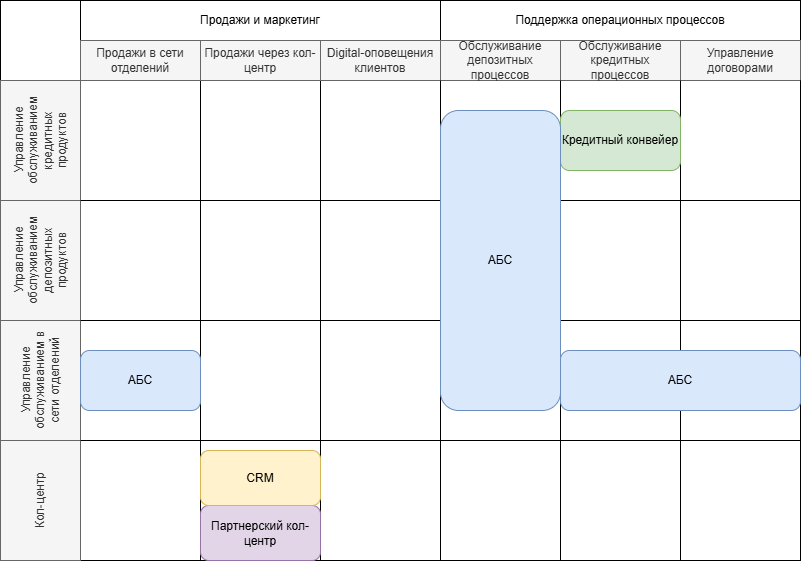
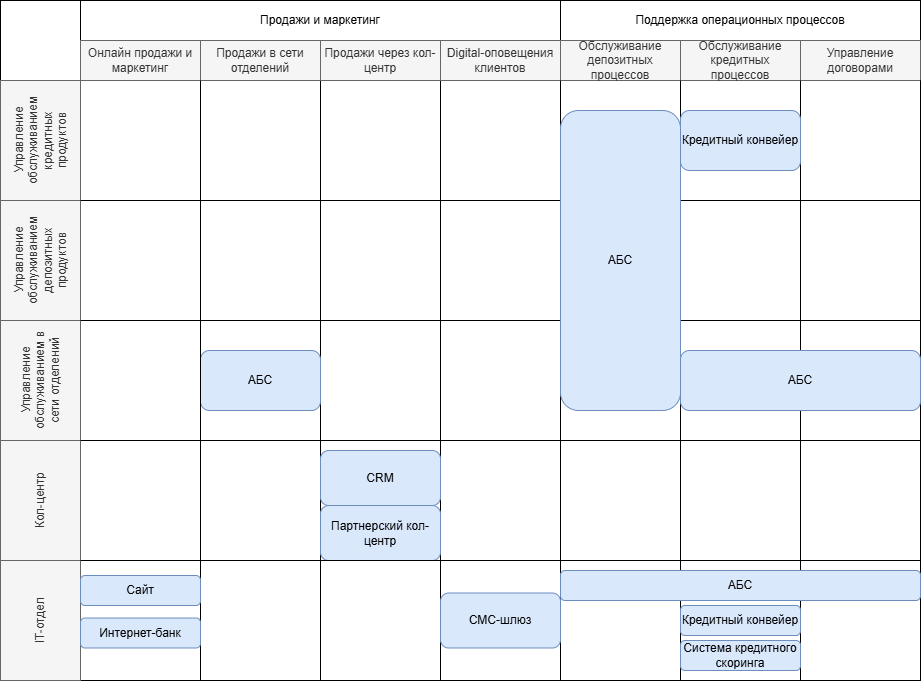
UPD: Task1 и Task2

diff --git a/Task1/Описание и примечание.md b/Task1/Описание и примечание.md
@@ -7,10 +7,5 @@
 4. При одобрении кредита заявки переходят в финальный статус и потом раз в сутки эта информация передается в АБС, где проводятся платежи для зачисления кредитных средств на счет клиента.
 
 **Примечание**
-1. Сайт и интернет банк на карте IT-ландшафта.  
-На текущий момент анализа компании нет ясности, кто занимается поддержкой и наполнением этих систем со стороны бизнес-подразделений. Учитывая это, а также то, что клиенты редко пользуются данными ресурсами, сайт и интернет-банк не отображены на карте IT-ландшафта.
-2. Digital-оповещения клиентов на карте IT-ландшафта.  
-Данная вертикаль осталась пустой, т.к.:
-    - По описанию бизнеса и систем, был сделан вывод, что АБС автоматически занимается рассылкой оповещений на основании статусов заявок от клиентов.
-    - В компании нет выделенного отдела, который отвечает за содержание SMS рассылок
-    - В компании нет упоминаний о бизнес-процессе рассылок маркетинговых оповещений
+1. IT-отдел не является участником бизнес-процессов напрямую, но обеспечивает поддержку и доработку текущий решений, поэтому он отражен в IT-ландшафте и использует все внутренние системы, которые может поддерживать. 
+2. На схему добавлена бизнес-возможность "Онлайн продажи и маркетинг", о которой говорится в описании, но не отображено в постановке задачи. Это необходимо для того, чтобы не забыть про сайт и интернет-банк на этапе проектирования.
